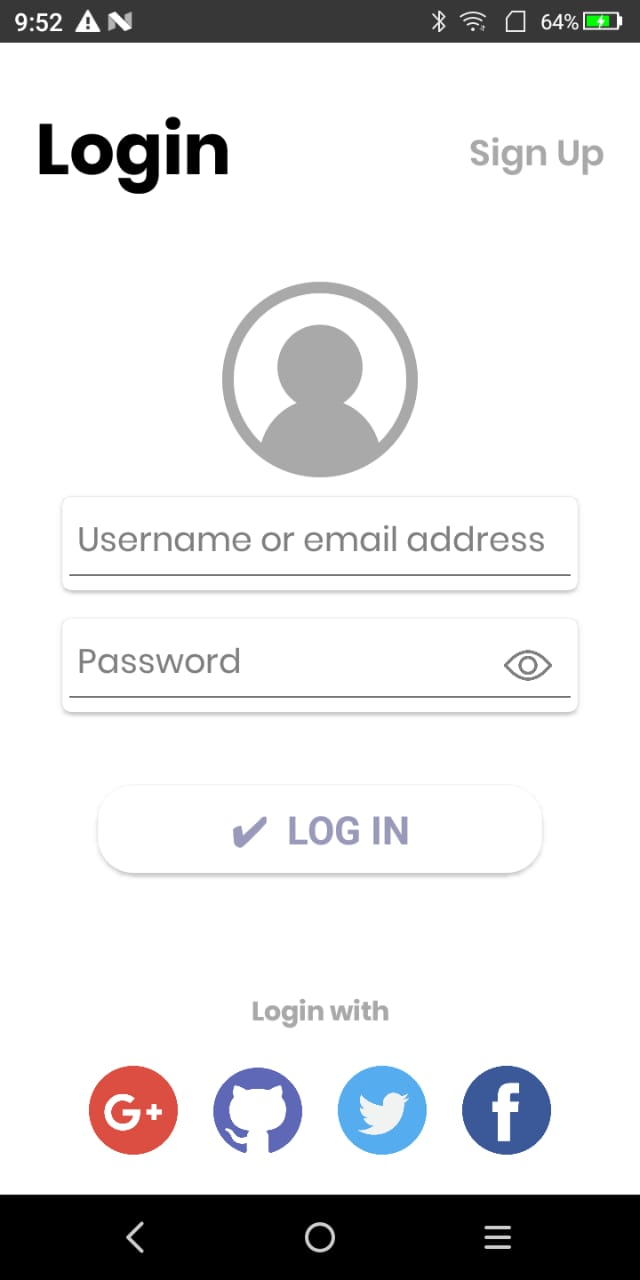
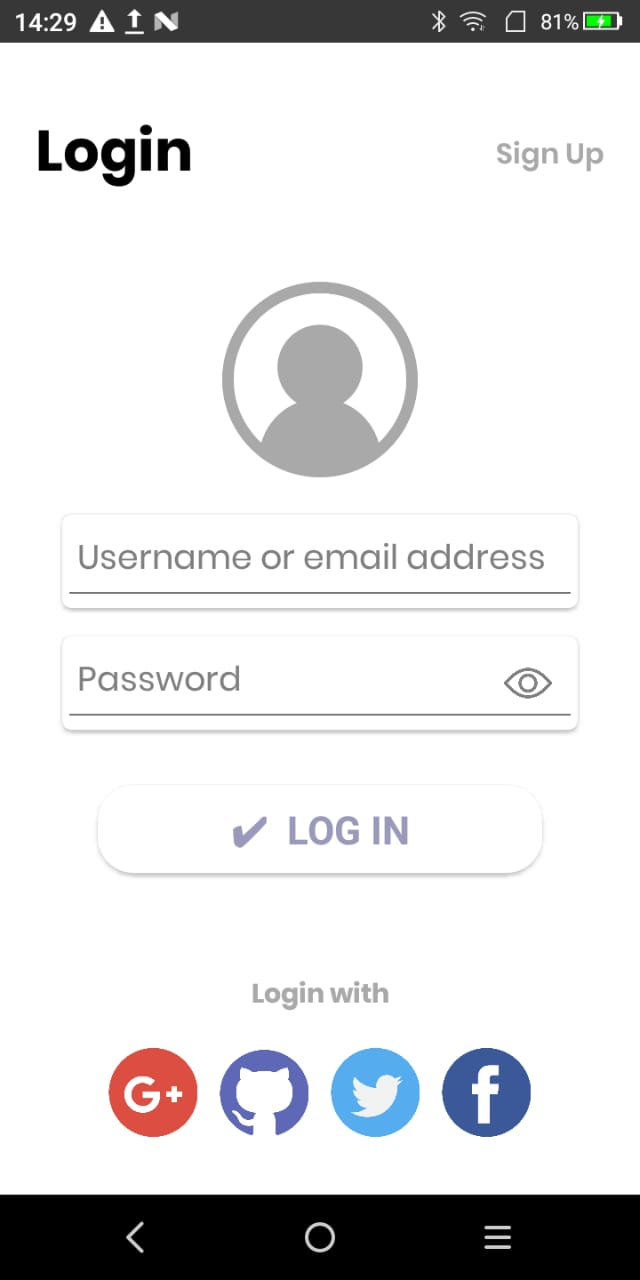
Some Changes

diff --git a/Homework01/Homework01/Views/LoginPage.xaml b/Homework01/Homework01/Views/LoginPage.xaml
@@ -20,10 +20,10 @@
             </Grid.RowDefinitions>
 
             <Label Grid.Column="0" Grid.ColumnSpan="2" Grid.Row="0" HorizontalTextAlignment="Start" VerticalTextAlignment="Center" FontFamily="{StaticResource PoppinsBoldFont}"
-                   Style="{StaticResource LabelStyle}" TextColor="Black" FontAttributes="Bold" FontSize="40"  Text="Login" Margin="20,0"/>
+                   Style="{StaticResource LabelStyle}" TextColor="Black" FontAttributes="Bold" FontSize="32"  Text="Login" Margin="20,0"/>
 
             <Label Grid.Column="1" Grid.ColumnSpan="2" Grid.Row="0" HorizontalTextAlignment="End" VerticalTextAlignment="Center" FontFamily="{StaticResource PoppinsSemiBoldFont}"
-                   Style="{StaticResource LabelStyle}" TextColor="DarkGray" Text="Sign Up" FontAttributes="Bold" FontSize="20" Margin="20,0">
+                   Style="{StaticResource LabelStyle}" TextColor="DarkGray" Text="Sign Up" FontAttributes="Bold" FontSize="16" Margin="20,0">
                 <Label.GestureRecognizers>
                     <TapGestureRecognizer Command="{Binding SignupCommand}"></TapGestureRecognizer>
                 </Label.GestureRecognizers>
@@ -32,7 +32,7 @@
 
                 <Image Source="ic_user" HeightRequest="110" WidthRequest="110"></Image>
 
-                <Frame CornerRadius="5" Margin="0,5,0,5" Padding="0,0" HasShadow="True">
+                <Frame CornerRadius="5" Margin="0,15,0,5" Padding="0,0" HasShadow="True">
                     <Entry Placeholder=" Username or email address "  PlaceholderColor="Gray" FontFamily="{StaticResource PoppinsFont}"
                            HorizontalTextAlignment="Start" Text="{Binding User}"  FontSize="19"/>
                 </Frame>
@@ -45,11 +45,11 @@
                         </Grid.ColumnDefinitions>
 
                         <Entry Grid.Column="0" Grid.ColumnSpan="2" Placeholder=" Password"  PlaceholderColor="Gray" FontSize="19" 
-                               HorizontalTextAlignment="Start" Text="{Binding User}"  FontFamily="{StaticResource PoppinsFont}" />
+                               HorizontalTextAlignment="Start" Text="{Binding Password}"  FontFamily="{StaticResource PoppinsFont}" />
                         <Image Grid.Column="1" Source="ic_eye" HeightRequest="0" Margin="10,0,15,0"/>
                     </Grid>
                 </Frame>
-                <Frame BackgroundColor="FloralWhite" Margin="20,30" Padding="0,0" HasShadow="True" CornerRadius="20" BorderColor="DarkGray">
+                <Frame BackgroundColor="FloralWhite" Margin="20,20" Padding="0,0" HasShadow="True" CornerRadius="20" BorderColor="DarkGray">
                         <Button BackgroundColor="White" BorderColor="DarkGray" TextColor="#999abb" 
                                 Text="&#x2714;  Log In"  FontAttributes="Bold" FontSize="22"></Button>
                 </Frame>
@@ -57,7 +57,7 @@
                 <Label Margin="0,30,0,0" HorizontalTextAlignment="Center" VerticalTextAlignment="End" FontFamily="{StaticResource PoppinsBoldFont}"
                        Style="{StaticResource LabelStyle}" TextColor="DarkGray" Text="Login with" FontSize="15" />
 
-                <Grid HeightRequest="50" ColumnSpacing="10" Margin="10,10">
+                <Grid HeightRequest="50" ColumnSpacing="10" Margin="25,10">
                     <Grid.ColumnDefinitions>
                         <ColumnDefinition Width="2*"></ColumnDefinition>
                         <ColumnDefinition Width="2*"></ColumnDefinition>

diff --git a/Homework01/Homework01/Views/SignUpPage.xaml b/Homework01/Homework01/Views/SignUpPage.xaml
@@ -19,10 +19,10 @@
             </Grid.RowDefinitions>
 
             <Label Grid.Column="0" Grid.ColumnSpan="2" Grid.Row="0" HorizontalTextAlignment="Start" VerticalTextAlignment="Center" FontFamily="{StaticResource PoppinsBoldFont}"
-                   Style="{StaticResource LabelStyle}" TextColor="Black" FontAttributes="Bold" FontSize="40"  Text="Sign Up" Margin="20,0"/>
+                   Style="{StaticResource LabelStyle}" TextColor="Black" FontAttributes="Bold" FontSize="32"  Text="Sign Up" Margin="20,0"/>
 
             <Label Grid.Column="1" Grid.ColumnSpan="2" Grid.Row="0" HorizontalTextAlignment="End" VerticalTextAlignment="Center" FontFamily="{StaticResource PoppinsSemiBoldFont}"
-                   Style="{StaticResource LabelStyle}" TextColor="DarkGray" Text="Login" FontAttributes="Bold" FontSize="20" Margin="20,0">
+                   Style="{StaticResource LabelStyle}" TextColor="DarkGray" Text="Login" FontAttributes="Bold" FontSize="16" Margin="20,0">
                 <Label.GestureRecognizers>
                     <TapGestureRecognizer Command="{Binding LoginCommand}"></TapGestureRecognizer>
                 </Label.GestureRecognizers>
@@ -70,7 +70,7 @@
 
                 <Frame BackgroundColor="FloralWhite" Margin="20,20" Padding="0,0" HasShadow="True" CornerRadius="20" BorderColor="DarkGray">
                     <Button BackgroundColor="White" BorderColor="DarkGray" TextColor="#999abb" 
-                                Text="&#x2714;  Sign Up"  FontAttributes="Bold" FontSize="22"></Button>
+                                Text="&#x2714;  Sign Up"  FontAttributes="Bold" FontSize="20"></Button>
                 </Frame>
 
                 <Label HorizontalTextAlignment="Center" VerticalTextAlignment="End" FontFamily="{StaticResource PoppinsBoldFont}"
